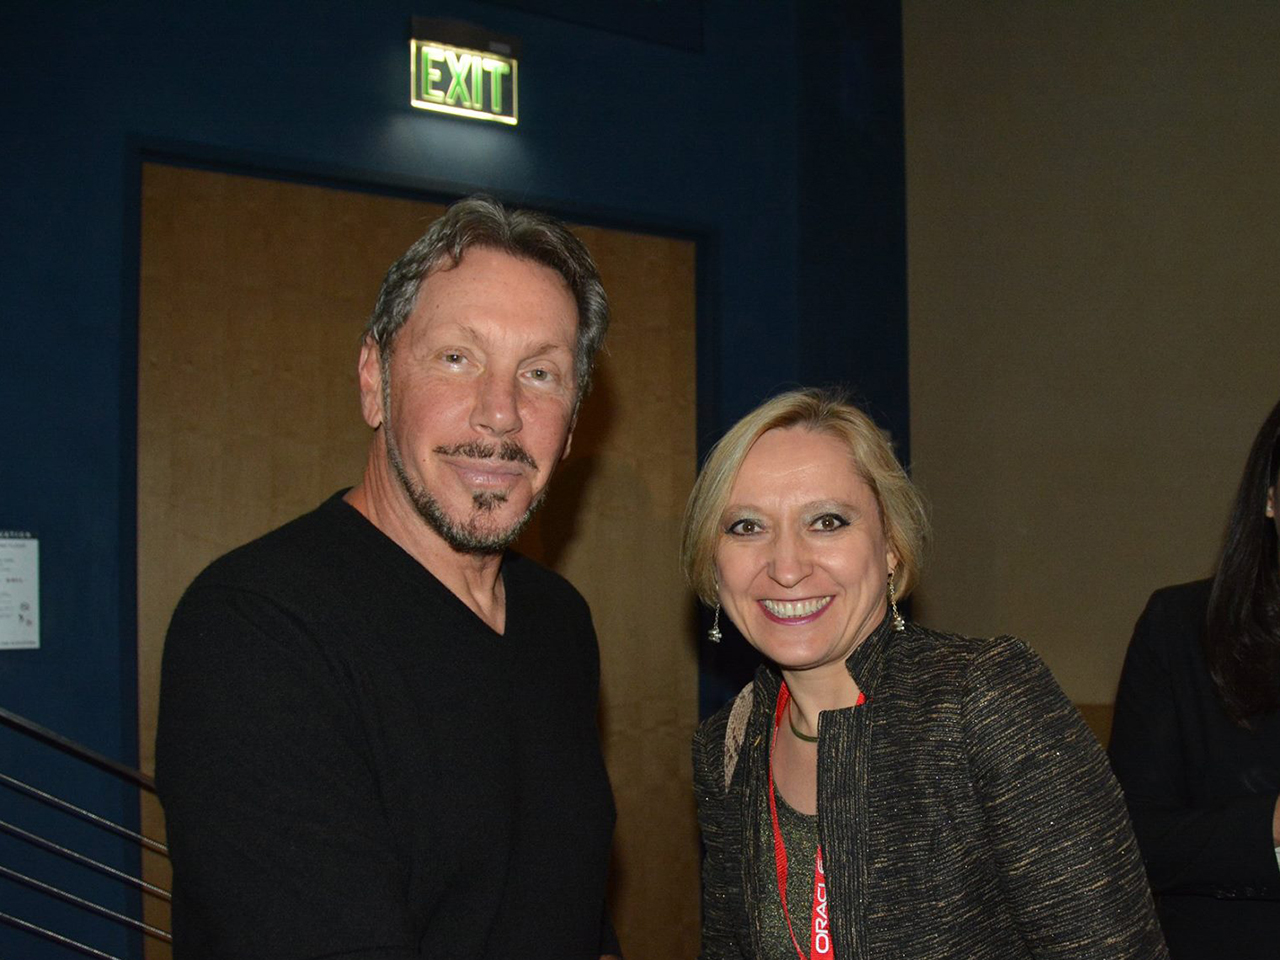
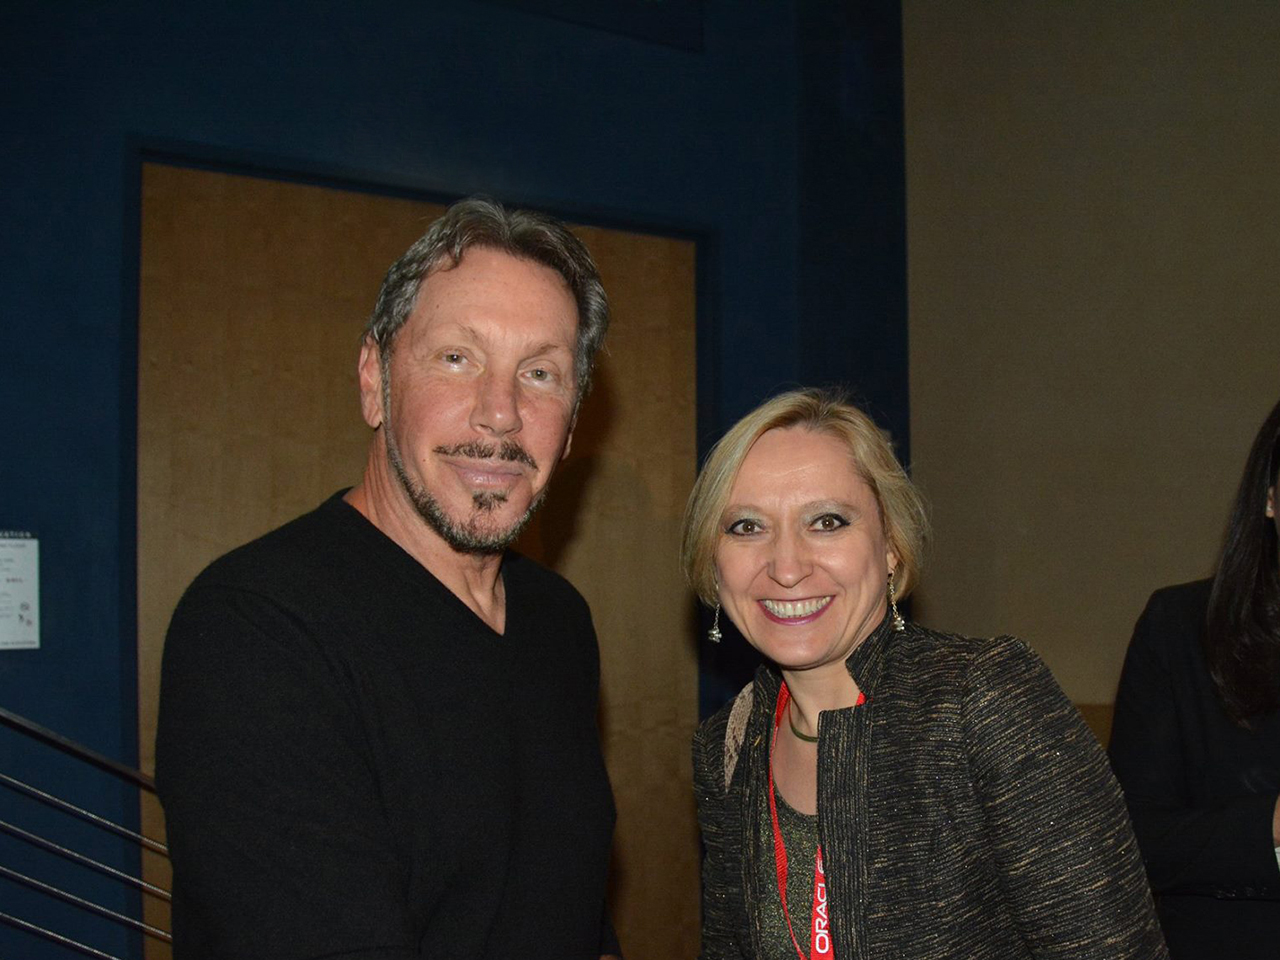
photoshopped larry ellison exit sign out, updated collage background

Changed region(s): [[0.2812, 0.0312, 0.4375, 0.2188]]

diff --git a/public/cache/index.html b/public/cache/index.html
@@ -1,7 +1,7 @@
 <!DOCTYPE html>
 <html>
 	<head>
-		<title>Olga Media</title>
+		<title>2016-06-13 13:55:14 -0700</title>
 		<meta charset="UTF-8">
 		<meta name="viewport" content="width=device-width, initial-scale=1">
 		<link rel="stylesheet" type="text/css" href="styles.css">
@@ -93,7 +93,7 @@
 			<figure class="project">
 				<img src="img/project_larry_ellison.jpg">
 				<figcaption>
-					<h2>Project Title</h2>
+					<h2>Larry Ellison</h2>
 					<p>Bicycle rights selfies listicle, craft beer hashtag synth PBR&B paleo tote bag cred scenester VHS everyday carry.</p>
 					<a href="#" class="projectLink"></a>
 				</figcaption>
@@ -109,7 +109,7 @@
 			<figure class="project">
 				<img src="img/project_sam_liccardo.jpg">
 				<figcaption>
-					<h2>Project Title</h2>
+					<h2>Sam Liccardo</h2>
 					<p>Bicycle rights selfies listicle, craft beer hashtag synth PBR&B paleo tote bag cred scenester VHS everyday carry.</p>
 					<a href="#" class="projectLink"></a>
 				</figcaption>
@@ -117,7 +117,7 @@
 			<figure class="project">
 				<img src="img/project_sergey_v_petrov.jpg">
 				<figcaption>
-					<h2>Project Title</h2>
+					<h2>Sergey V. Petrov</h2>
 					<p>Bicycle rights selfies listicle, craft beer hashtag synth PBR&B paleo tote bag cred scenester VHS everyday carry.</p>
 					<a href="#" class="projectLink"></a>
 				</figcaption>
@@ -125,7 +125,7 @@
 			<figure class="project">
 				<img src="img/project_tim_draper.jpg">
 				<figcaption>
-					<h2>Project Title</h2>
+					<h2>Tim Draper</h2>
 					<p>Bicycle rights selfies listicle, craft beer hashtag synth PBR&B paleo tote bag cred scenester VHS everyday carry.</p>
 					<a href="#" class="projectLink"></a>
 				</figcaption>
@@ -133,7 +133,7 @@
 			<figure class="project">
 				<img src="img/project_woz.jpg">
 				<figcaption>
-					<h2>Project Title</h2>
+					<h2>Steve Wozniak</h2>
 					<p>Bicycle rights selfies listicle, craft beer hashtag synth PBR&B paleo tote bag cred scenester VHS everyday carry.</p>
 					<a href="#" class="projectLink"></a>
 				</figcaption>
@@ -141,7 +141,7 @@
 			<figure class="project">
 				<img src="img/project_kansen_chu.jpg">
 				<figcaption>
-					<h2>Project Title</h2>
+					<h2>Kansen Chu</h2>
 					<p>Bicycle rights selfies listicle, craft beer hashtag synth PBR&B paleo tote bag cred scenester VHS everyday carry.</p>
 					<a href="#" class="projectLink"></a>
 				</figcaption>
@@ -149,7 +149,7 @@
 			<figure class="project">
 				<img src="img/project_tony_perkins.jpg">
 				<figcaption>
-					<h2>Project Title</h2>
+					<h2>Tony Perkins</h2>
 					<p>Bicycle rights selfies listicle, craft beer hashtag synth PBR&B paleo tote bag cred scenester VHS everyday carry.</p>
 					<a href="#" class="projectLink"></a>
 				</figcaption>
@@ -160,8 +160,15 @@
 				<h2 class="eventsSectionTitle">Events</h2>
 				<div id="eventList">
 					
+						<div class="event">
+							<h3 class="eventTitle">Gluten-free fingerstache fixie chillwave gentrify</h3>
+							<p class="eventSubTitle">Date: 2.12.2099 | Fee: $45</p>
+							<p class="eventSummary">Williamsburg echo park blue bottle schlitz, twee offal farm-to-table small batch keytar art party swag synth kogi brunch. Sustainable quinoa williamsburg dreamcatcher, letterpress plaid disrupt cronut retro synth readymade tilde aesthetic artisan tattooed. Before they sold out iPhone biodiesel, tacos artisan kogi put a bird on it 90's roof party ennui forage. Tote bag pitchfork iPhone blog. </p>
+							<p class="eventAddress">532324 staree ave, albenon, NY</p>
+							<a href="sdsad" class="eventLink">Gluten-free</a>
+							<hr>
+						</div>
 					
-						<p class="noEvents">No events currently listed.</p>
 					
 				</div>
 				<ul id="calendar">

diff --git a/public/styles.css b/public/styles.css
@@ -51,8 +51,8 @@ nav a {
 #banner {
 	width: 100%;
 	height: 600px;
-	background: url(img/lines.png) repeat left top, url(img/collage_background.jpg) no-repeat left top;
-	background-size: auto, cover;
+	background: url(img/lines.png) repeat left top, url(img/collage_background.jpg) repeat left top;
+	background-size: auto, 800px;
 }
 #slides {
 	width: 100%;

diff --git a/app.rb b/app.rb
@@ -1,6 +1,6 @@
 def authorized?
   @auth ||=  Rack::Auth::Basic::Request.new(request.env)
-  @auth.provided? && @auth.basic? && @auth.credentials && @auth.credentials == [admin_user,admin_pass]
+  @auth.provided? && @auth.basic? && @auth.credentials && @auth.credentials == [admin_user, admin_pass]
 end
 
 def protected!
